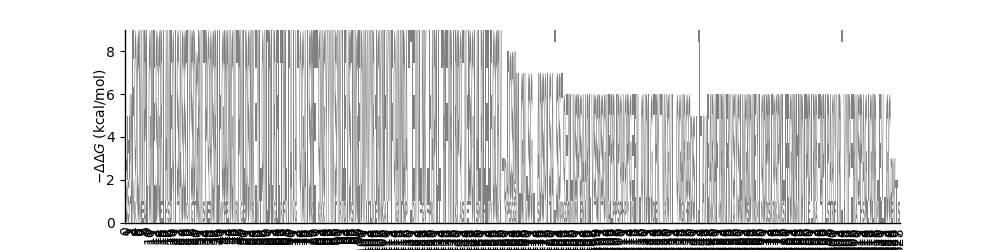
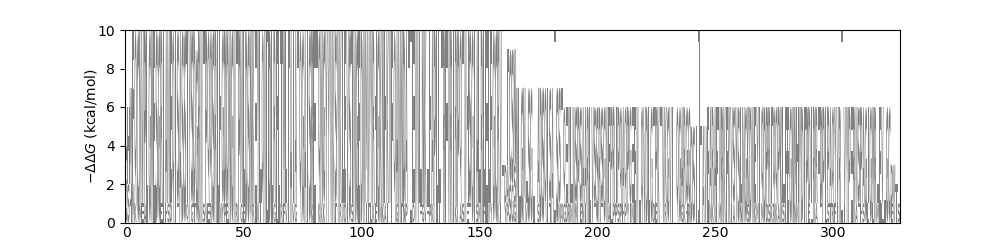
Agrego prueba DSSP y separacion de metodos

diff --git a/main.py b/main.py
@@ -14,8 +14,61 @@ root = Tk()
 root.title("TP FINAL")
 root.geometry("1920x1080")
 
+def blast_query(fasta_string,pdb_id):
+    result_handle = NCBIWWW.qblast("blastp", "pdb", fasta_string.split('\n')[1],alignments=10,hitlist_size=10)
+    blast = pdb_id + ".xml"
+    with open(blast, "w") as out_handle:
+        out_handle.write(result_handle.read())
+
+    result_handle.close()
+    return blast
+
+def generate_3structure(pdb_id):
+    pymol.cmd.load(pdb_id + ".pdb", pdb_id)
+    pymol.cmd.disable("all")
+    pymol.cmd.enable(pdb_id)
+    print(pymol.cmd.get_names())
+    pymol.cmd.hide('all')
+    pymol.cmd.show('cartoon')
+    pymol.cmd.set('ray_opaque_background', 0)
+    pymol.cmd.color('red', 'ss h')
+    pymol.cmd.color('yellow', 'ss s')
+    pymol.cmd.png("%s.png"%(pdb_id))
+    #pymol.cmd.quit()
+    loadPymol = Image.open(pdb_id + ".png")
+    renderPymol = ImageTk.PhotoImage(loadPymol)
+    imgPymol = Label(root,image=renderPymol)
+    imgPymol.image = renderPymol
+    imgPymol.place(x=0,y=400)
+
+def generate_alignment_view(outputPath,pdb_id):
+    with open(outputPath, "r") as f:
+        seqText = ""
+        for sq in f:
+            if '>' in sq:
+                if seqText != "":
+                    raw_seqs.append(seqText)
+                    seqText = "" 
+                raw_seqs.append(sq)
+            else:
+                seqText += sq
+    seqs = [seq.strip() for seq in raw_seqs if ('#' not in seq) and ('>') not in seq]
+
+    counts_mat = lm.alignment_to_matrix(seqs)
+    counts_mat.head()
+    crp_logo = lm.Logo(counts_mat, font_name = 'Arial Rounded MT Bold')
+
+    # style using Axes methods
+    crp_logo.ax.xaxis.set_ticks_position('none')
+    crp_logo.ax.xaxis.set_tick_params(pad=-1)
+    plt.savefig(pdb_id + "_aln.png")
+    load = Image.open(pdb_id + "_aln.png")
+    render = ImageTk.PhotoImage(load)
+    img = Label(root,image=render)
+    img.image = render
+    img.place(x=0,y=80)
+
 def fasta():
-    print('Beginning file download with urllib2...')
     pdb_id = str(myTextbox.get())
     url = "https://files.rcsb.org/download/"+ pdb_id +".pdb"
     try:
@@ -31,14 +84,11 @@ def fasta():
     urllib.request.urlretrieve(url2, pdb_id + ".fasta")
     fasta_string = open(pdb_id + ".fasta").read()
     print(fasta_string)
-    result_handle = NCBIWWW.qblast("blastp", "pdb", fasta_string.split('\n')[1],alignments=10,hitlist_size=10)
-    blast = pdb_id + ".xml"
-    with open(blast, "w") as out_handle:
-        out_handle.write(result_handle.read())
+    
+    blast = blast_query(fasta_string,pdb_id)
 
-    result_handle.close()
     blast_records = NCBIXML.parse(open(blast))
-    print(blast_records)
+
     owd = os.getcwd()
     if not os.path.exists("./fasta"):
         os.mkdir("./fasta")
@@ -59,49 +109,11 @@ def fasta():
     clustalomega_cline = ClustalOmegaCommandline(infile = all_seq_fasta, outfile = outputPath,force = True)
     clustalomega_cline()
     raw_seqs =[]
-    with open(outputPath, "r") as f:
-        seqText = ""
-        for sq in f:
-            if '>' in sq:
-                if seqText != "":
-                    raw_seqs.append(seqText)
-                    seqText = "" 
-                raw_seqs.append(sq)
-            else:
-                seqText += sq
-    seqs = [seq.strip() for seq in raw_seqs if ('#' not in seq) and ('>') not in seq]
+    
+    generate_alignment_view(outputPath,pdb_id)
 
-    counts_mat = lm.alignment_to_matrix(seqs)
-    counts_mat.head()
-    crp_logo = lm.Logo(counts_mat, font_name = 'Arial Rounded MT Bold')
-
-    # style using Axes methods
-    crp_logo.ax.set_ylabel("$-\Delta \Delta G$ (kcal/mol)", labelpad=-1)
-    crp_logo.ax.xaxis.set_ticks_position('none')
-    crp_logo.ax.xaxis.set_tick_params(pad=-1)
-    plt.savefig(pdb_id + "_aln.png")
-    load = Image.open(pdb_id + "_aln.png")
-    render = ImageTk.PhotoImage(load)
-    img = Label(root,image=render)
-    img.image = render
-    img.place(x=0,y=80)
-
-    pymol.cmd.load(pdb_id + ".pdb", pdb_id)
-    pymol.cmd.disable("all")
-    pymol.cmd.enable(pdb_id)
-    print(pymol.cmd.get_names())
-    pymol.cmd.hide('all')
-    pymol.cmd.show('cartoon')
-    pymol.cmd.set('ray_opaque_background', 0)
-    pymol.cmd.color('red', 'ss h')
-    pymol.cmd.color('yellow', 'ss s')
-    pymol.cmd.png("%s.png"%(pdb_id))
-    #pymol.cmd.quit()
-    loadPymol = Image.open(pdb_id + ".png")
-    renderPymol = ImageTk.PhotoImage(loadPymol)
-    imgPymol = Label(root,image=renderPymol)
-    imgPymol.image = renderPymol
-    imgPymol.place(x=0,y=300)
+    generate_3structure(pdb_id)
+    
             
 
 

diff --git a/parser.py b/parser.py
@@ -2,10 +2,24 @@ from Bio.Blast import NCBIWWW, NCBIXML
 from Bio import SearchIO
 from Bio import SeqIO
 from Bio.Align.Applications import ClustalOmegaCommandline 
-import logomaker as lm
-import matplotlib.pyplot as plt
+from Bio.PDB import PDBParser
+from Bio.PDB.DSSP import DSSP
 
 
+p = PDBParser()
+structure = p.get_structure("6TDB", "./6TDB.pdb")
+model = structure[0]
+dssp = DSSP(model, "./6TDB.pdb")
+print(len(list(dssp.keys())))
+# DSSP data is accessed by a tuple (chain_id, res_id)
+for a_key in list(dssp.keys()):
+ 
+# (dssp index, amino acid, secondary structure, relative ASA, phi, psi,
+# NH_O_1_relidx, NH_O_1_energy, O_NH_1_relidx, O_NH_1_energy,
+# NH_O_2_relidx, NH_O_2_energy, O_NH_2_relidx, O_NH_2_energy)
+    if dssp[a_key][2] != '-':
+        print(dssp[a_key])
+    #print(dssp[a_key][2])
 
 # file = open("./fasta/6TDB.fasta", "w")
 
@@ -21,27 +35,27 @@ import matplotlib.pyplot as plt
 #                 sbjct_no_gaps = hsp.sbjct.replace("-","")
 #                 file.writelines(sbjct_no_gaps)
 #                 file.writelines("\n")
-outputPath = "./fasta/6TDB_Alligned.fasta"
-clustalomega_cline = ClustalOmegaCommandline(infile = "./fasta/6TDB.fasta", outfile = outputPath,force = True)
-clustalomega_cline()
-raw_seqs =[]
-with open(outputPath, "r") as f:
-    seqText = ""
-    for sq in f:
-        if '>' in sq:
-            if seqText != "":
-                raw_seqs.append(seqText)
-                seqText = "" 
-            raw_seqs.append(sq)
-        else:
-            seqText += sq
-seqs = [seq.strip() for seq in raw_seqs if ('#' not in seq) and ('>') not in seq]
+# outputPath = "./fasta/6TDB_Alligned.fasta"
+# clustalomega_cline = ClustalOmegaCommandline(infile = "./fasta/6TDB.fasta", outfile = outputPath,force = True)
+# clustalomega_cline()
+# raw_seqs =[]
+# with open(outputPath, "r") as f:
+#     seqText = ""
+#     for sq in f:
+#         if '>' in sq:
+#             if seqText != "":
+#                 raw_seqs.append(seqText)
+#                 seqText = "" 
+#             raw_seqs.append(sq)
+#         else:
+#             seqText += sq
+# seqs = [seq.strip() for seq in raw_seqs if ('#' not in seq) and ('>') not in seq]
 
-counts_mat = lm.alignment_to_matrix(seqs)
-counts_mat.head()
-lm.Logo(counts_mat)
-plt.savefig("test.png")
-plt.show()
+# counts_mat = lm.alignment_to_matrix(seqs)
+# counts_mat.head()
+# lm.Logo(counts_mat)
+# plt.savefig("test.png")
+# plt.show()
 
 # print the executable command
 #print(clustalomega_cline)
